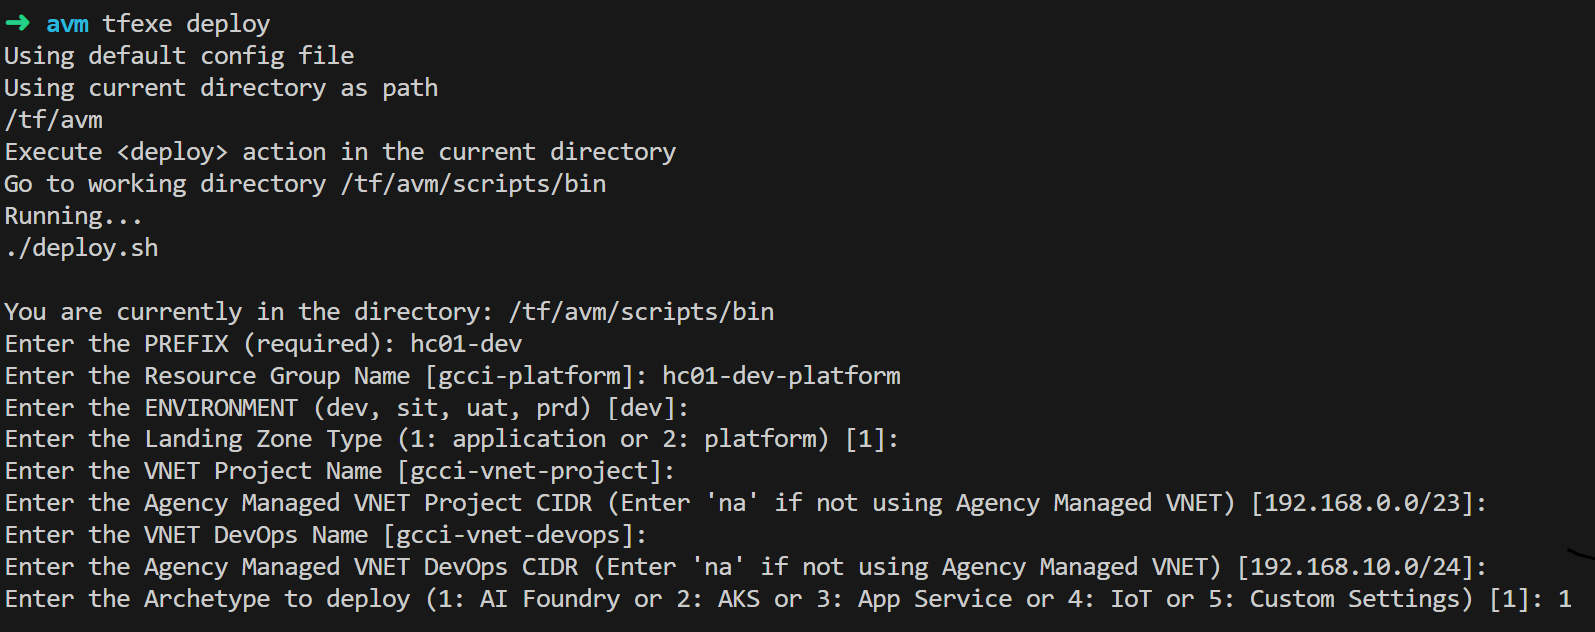
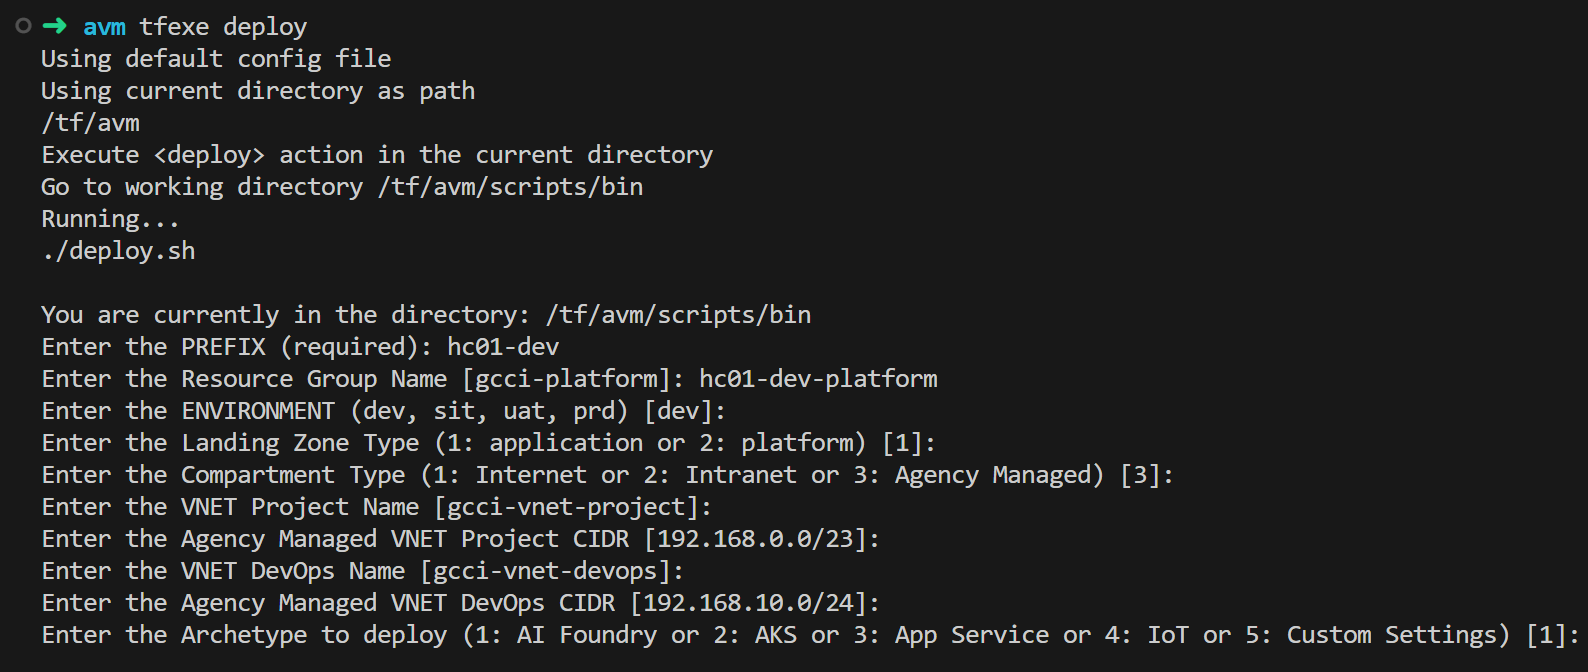
update readme.md

Changed region(s): [[0.0, 0.4509, 1.0, 0.962], [0.0, 0.0301, 0.4628, 0.4209]]

diff --git a/README.md b/README.md
@@ -94,6 +94,7 @@ tfexe deploy
 * **RESOURCE GROUP NAME**: Name of the Azure Resource Group to host resources (e.g. `hc01-dev-platform`)
 * **ENVIRONMENT**: Deployment environment (`dev`, `sit`, `uat`, `stg`, `prd`; default: `dev`)
 * **LANDING ZONE TYPE**: Type of landing zone (Enter `1` = application)
+* **COMPARTMENT TYPE**: Type of VNET compartment (Enter `3` = agency managed)
 * **ARCHETYPE**: Deployment archetype 
   - (Enter `1` = AI Foundry archetype)
   - (Enter `2` = AKS archetype)
@@ -138,17 +139,15 @@ tfexe deploy
     * `2`: platform
   * Default: `1`
 
-* **ARCHETYPE**
+* **COMPARTMENT TYPE**
 
-  * Choose the type of archetype to deploy.
+  * Choose the type of VNET Compartment Type.
   * Valid values:
 
-    * `1`: AI Foundry Archetype
-    * `2`: AKS Archetype
-    * `3`: App Service Archetype
-    * `4`: IoT Archetype
-    * `5`: Custom Archetype (you define your own settings.yaml file in "/tf/avm/scripts/config/settings.yaml")
-  * Default: `1`
+    * `1`: Internet
+    * `2`: Intranet
+    * `3`: Agency Managed
+  * Default: `3`
 
 * **VNET PROJECT NAME**
 
@@ -169,6 +168,18 @@ tfexe deploy
 
   * Enter the CIDR of the DevOps virtual network.
   * Default: `192.168.10.0/24` 
+
+* **ARCHETYPE**
+
+  * Choose the type of archetype to deploy.
+  * Valid values:
+
+    * `1`: AI Foundry Archetype
+    * `2`: AKS Archetype
+    * `3`: App Service Archetype
+    * `4`: IoT Archetype
+    * `5`: Custom Archetype (you define your own settings.yaml file in "/tf/avm/scripts/config/settings.yaml")
+  * Default: `1`
 
 * **SETTINGS YAML FILE PATH**
 
